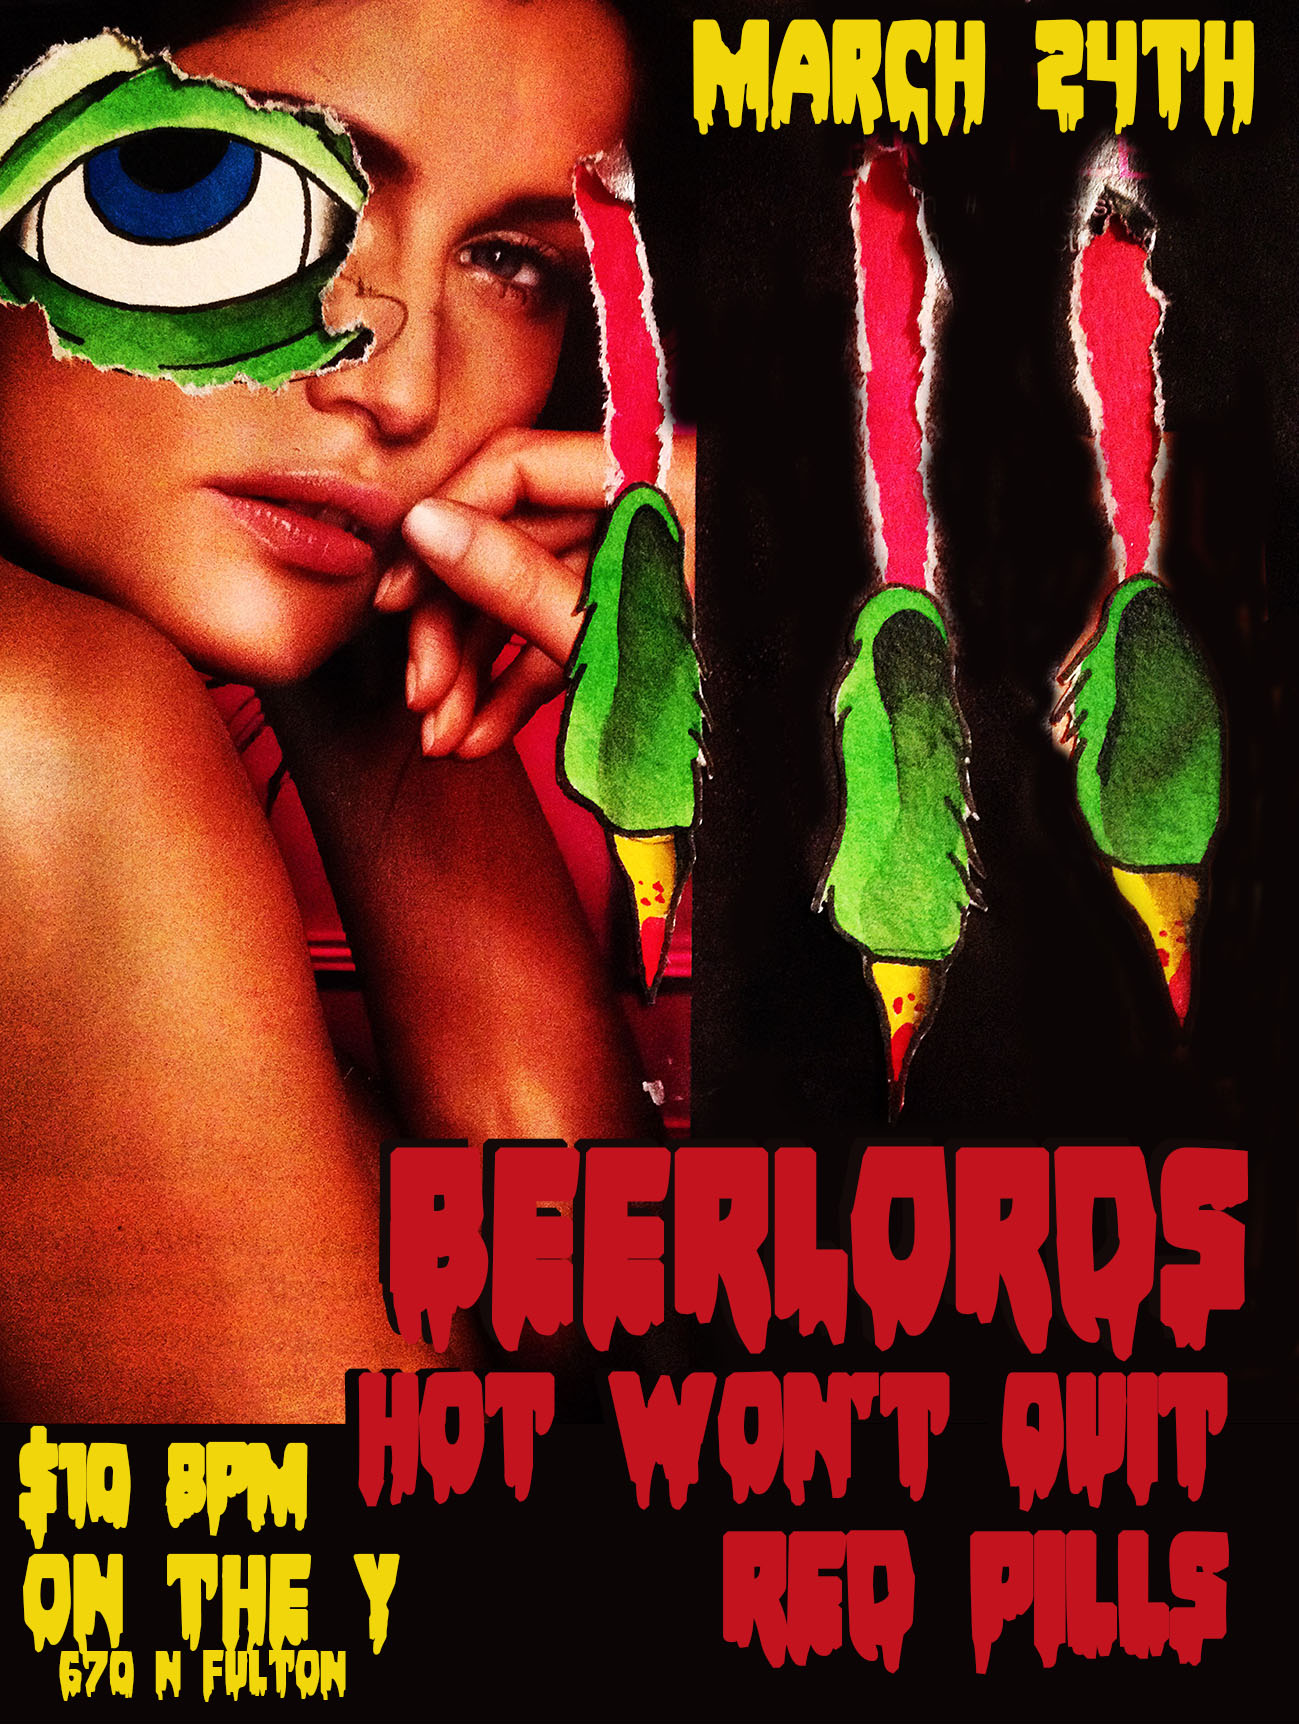
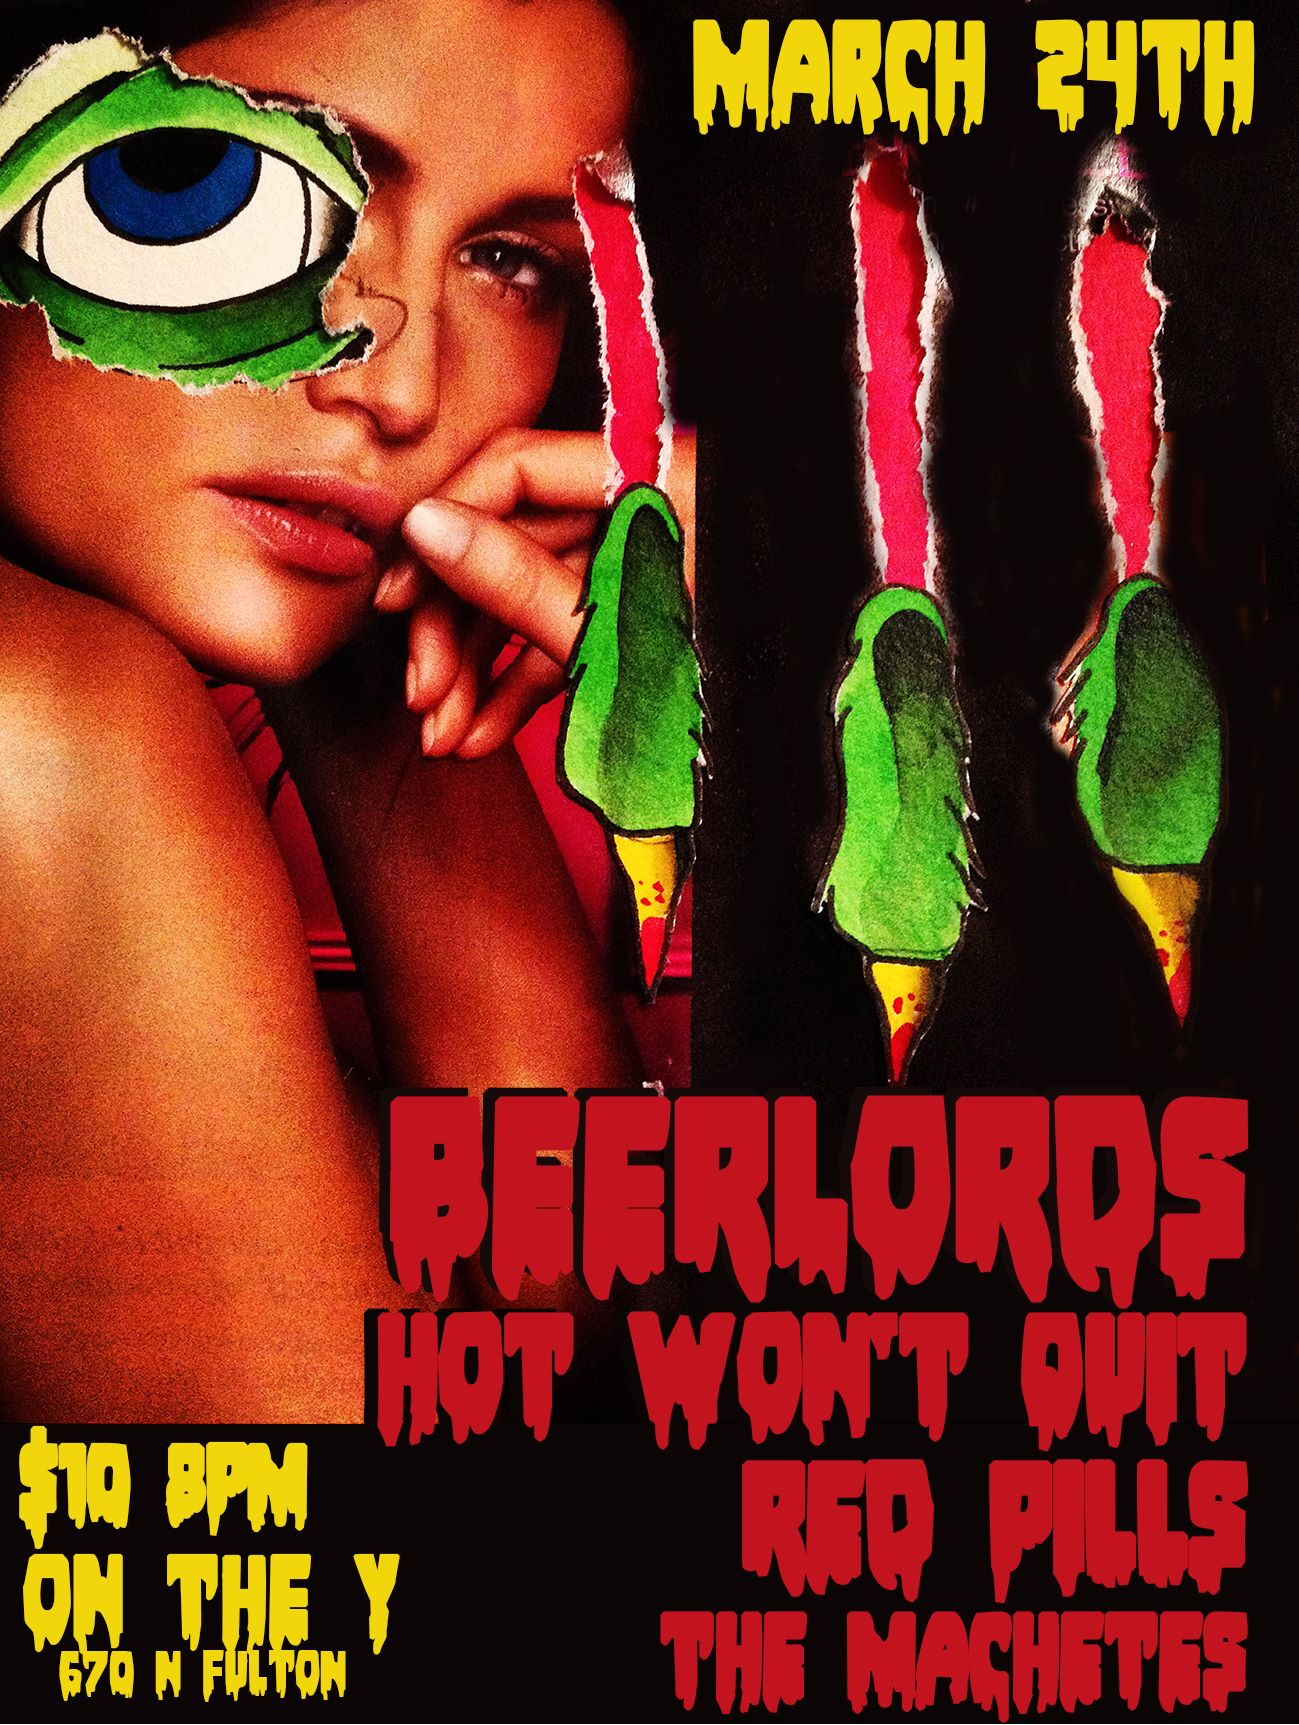
adds machetes to sac show

diff --git a/_shows/2017-03-24-sacramento-ca.html b/_shows/2017-03-24-sacramento-ca.html
@@ -10,11 +10,13 @@ venue_link: https://www.facebook.com/ontheysacto/
 fb_event: https://www.facebook.com/events/1788138991509807/
 image: /images/shows/2017-03-24-sacramento-ca.jpg
 
-details: This will be our first time rocking SacTown, and we are so glad to be sharing the stage with Red Pills and Beerlords! We don't really know anyone in this town, so if you got some homies in Sac, get their butts in gear and get them out to the show! We promise we'll make it worth their while.
+details: This will be our first time rocking SacTown, and we are so glad to be sharing the stage with Beerlords, Red Pills, and The Machetes! We don't really know anyone in this town, so if you got some homies in Sac, get their butts in gear and get them out to the show! We promise we'll make it worth their while.
 
 bands:
   - name: Beerlords
     link: https://myspace.com/httpwwwbeerlords
   - name: Red Pills
     link: https://www.facebook.com/Red-Pills-1560138844298761
+  - name: The Machetes
+    link: https://themachetes.bandcamp.com
 ---
